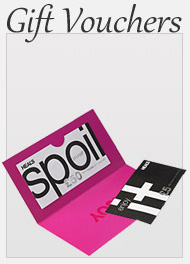
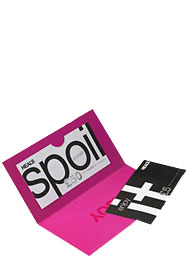
rebrand offers page

Changed region(s): [[0.0263, 0.0, 0.9737, 0.6364], [0.0263, 0.6364, 0.9737, 1.0], [0.0, 0.6061, 0.0263, 0.6364]]

diff --git a/resources/css/catgrid.css b/resources/css/catgrid.css
@@ -1,4 +1,4 @@
-.leftnav-header p{color:#747679;text-decoration: none;display: block;padding: 0 0 0 5px;text-transform:uppercase;font-size:14px;margin:8px 0 15px 0;} 
+.leftnav-header p{color:#747679;text-decoration: none;display: block;padding: 0 0 0 5px;text-transform:none;font-size:1.2em;margin:8px 0 5px 0; font-family:"Times New Roman", Times, serif;font-style:italic; font-weight:bold;} 
 #content-default_nocoltwothree, #productdetail_bottom {
 background:none;}
 #category-container {width:940px;background-color:#ffffff;height:auto;overflow:hidden;}
@@ -10,64 +10,65 @@ h5.acc_trigger a:hover, h5.acc_trigger_gift a:hover {text-decoration:underline;}
 h5.active {background-position: left bottom;}
 .acc_accordion_area, .shopbybrand_area {margin: 0; padding: 0;width: 190px;background-color:#ffffff;overflow: hidden;float: left;}
 .acc_accordion_area .block_christmas, .shopbybrand_area .block_christmas, .acc_accordion_area .block_office, .shopbybrand_area .block_office, .acc_accordion_area .block_dining, .shopbybrand_area .block_dining, .acc_accordion_area .block_furniture, .shopbybrand_area .block_furniture, .acc_accordion_area .block_accessories, .shopbybrand_area .block_accessories, .acc_accordion_area .block_lighting, .shopbybrand_area .block_lighting, .acc_accordion_area .block_gifts, .shopbybrand_area .block_gifts, .acc_accordion_area .block_toiletries, .shopbybrand_area .block_toiletries, .acc_accordion_area .block_garden, .shopbybrand_area .block_garden, .acc_accordion_area .block_bathroom, .shopbybrand_area .block_bathroom, .acc_accordion_area .block_bedroom, .shopbybrand_area .block_bedroom, .acc_accordion_area .block_sale, .shopbybrand_area .block_sale{margin:0 5px 0 5px;padding:0;}
-.shopbybrand_area .block_gift_voucher {margin:50px 8px 0 7px; padding:0;}
+.shopbybrand_area .block_gift_voucher {margin:0 8px 0 7px; padding:0;}
 .acc_accordion_area .block_dining:hover, .shopbybrand_area .block_dining:hover, .acc_accordion_area .block_office:hover, .shopbybrand_area .block_office:hover, .acc_accordion_area .block_christmas:hover, .shopbybrand_area .block_christmas:hover, .acc_accordion_area .block_furniture:hover, .shopbybrand_area .block_furniture:hover, .acc_accordion_area .block_accessories:hover, .shopbybrand_area .block_accessories:hover, .acc_accordion_area .block_lighting:hover, .shopbybrand_area .block_lighting:hover, .acc_accordion_area .block_gifts:hover, .shopbybrand_area .block_gifts:hover, .acc_accordion_area .block_toiletries:hover, .shopbybrand_area .block_toiletries:hover, .acc_accordion_area .block_garden:hover, .shopbybrand_area .block_garden:hover, .acc_accordion_area .block_bathroom:hover, .shopbybrand_area .block_bathroom:hover, .acc_accordion_area .block_bedroom:hover, .shopbybrand_area .block_bedroom:hover, .acc_accordion_area .block_sale:hover, .shopbybrand_area .block_sale:hover, .shopbybrand_area .block_gift_voucher:hover {cursor:pointer;}
-.acc_accordion_area .block_dining p, .shopbybrand_area .block_dining p, .acc_accordion_area .block_furniture p, .shopbybrand_area .block_furniture p, .acc_accordion_area .block_accessories p, .shopbybrand_area .block_accessories p, .acc_accordion_area .block_lighting p, .shopbybrand_area .block_lighting p, .acc_accordion_area .block_gifts p, .shopbybrand_area .block_gifts p, .acc_accordion_area .block_toiletries p, .shopbybrand_area .block_toiletries p, .acc_accordion_area .block_garden p, .shopbybrand_area .block_garden p, .acc_accordion_area .block_bathroom p, .shopbybrand_area .block_bathroom p, .acc_accordion_area .block_bedroom p, .shopbybrand_area .block_bedroom p, .acc_accordion_area .block_sale p, .shopbybrand_area .block_sale p, .acc_accordion_area .block_office p, .shopbybrand_area .block_office p, .acc_accordion_area .block_christmas p, .shopbybrand_area .block_christmas p, .shopbybrand_area .block_gift_voucher p {border-bottom:1px dotted #cccccc;padding-top:5px;padding-bottom:5px;margin:0;}
-.acc_accordion_area .block_dining p:hover, .shopbybrand_area .block_dining p:hover {background-color:#e8e5dc;}
-.acc_accordion_area .block_furniture p:hover, .shopbybrand_area .block_furniture p:hover {background-color:#E6E3EF;}
-.acc_accordion_area .block_accessories p:hover, .shopbybrand_area .block_accessories p:hover {background-color:#f0eadd;}
-.acc_accordion_area .block_lighting p:hover, .shopbybrand_area .block_lighting p:hover {background-color:#e2e2e2;}
-.acc_accordion_area .block_gifts p:hover, .shopbybrand_area .block_gifts p:hover, .shopbybrand_area .block_gift_voucher p:hover {background-color:#f0c7d6;}
-.acc_accordion_area .block_toiletries p:hover, .shopbybrand_area .block_toiletries p:hover {background-color:#ddeee6;}
-.acc_accordion_area .block_garden p:hover, .shopbybrand_area .block_garden p:hover {background-color:#ced698;}
-.acc_accordion_area .block_bathroom p:hover, .shopbybrand_area .block_bathroom p:hover {background-color:#ddeee6;}
-.acc_accordion_area .block_office p:hover, .shopbybrand_area .block_office p:hover {background-color:#f8e8de;}
-.acc_accordion_area .block_bedroom p:hover, .shopbybrand_area .block_bedroom p:hover {background-color:#d3dde7;}
-.acc_accordion_area .block_sale p:hover, .shopbybrand_area .block_sale p:hover {background-color:#ecc3c0;}
-.acc_accordion_area .block_christmas p:hover, .shopbybrand_area .block_christmas p:hover {background-color:#d7bdc9;}
-.acc_accordion_area .block_dining p a, .acc_accordion_area .block_office p a, .shopbybrand_area .block_office p a, .acc_accordion_area .block_christmas p a, .shopbybrand_area .block_christmas p a, .shopbybrand_area .block_dining p a, .acc_accordion_area .block_furniture p a, .shopbybrand_area .block_furniture p a, .acc_accordion_area .block_accessories p a, .shopbybrand_area .block_accessories p a, .acc_accordion_area .block_lighting p a, .shopbybrand_area .block_lighting p a, .acc_accordion_area .block_gifts p a, .shopbybrand_area .block_gifts p a, .acc_accordion_area .block_toiletries p a, .shopbybrand_area .block_toiletries p a, .acc_accordion_area .block_garden p a, .shopbybrand_area .block_garden p a, .acc_accordion_area .block_bathroom p a, .shopbybrand_area .block_bathroom p a, .acc_accordion_area .block_bedroom p a, .shopbybrand_area .block_bedroom p a, .acc_accordion_area .block_sale p a, .shopbybrand_area .block_sale p a, .shopbybrand_area .block_gift_voucher p a {color:#666666;text-decoration:none;margin-left:15px;display:block;}
-.border-top {border-top:1px dotted #cccccc;}
+.acc_accordion_area .block_dining p, .shopbybrand_area .block_dining p, .acc_accordion_area .block_furniture p, .shopbybrand_area .block_furniture p, .acc_accordion_area .block_accessories p, .shopbybrand_area .block_accessories p, .acc_accordion_area .block_lighting p, .shopbybrand_area .block_lighting p, .acc_accordion_area .block_gifts p, .shopbybrand_area .block_gifts p, .acc_accordion_area .block_toiletries p, .shopbybrand_area .block_toiletries p, .acc_accordion_area .block_garden p, .shopbybrand_area .block_garden p, .acc_accordion_area .block_bathroom p, .shopbybrand_area .block_bathroom p, .acc_accordion_area .block_bedroom p, .shopbybrand_area .block_bedroom p, .acc_accordion_area .block_sale p, .shopbybrand_area .block_sale p, .acc_accordion_area .block_office p, .shopbybrand_area .block_office p, .acc_accordion_area .block_christmas p, .shopbybrand_area .block_christmas p, .shopbybrand_area .block_gift_voucher p {padding-top:5px;padding-bottom:5px;margin:0;}
+.acc_accordion_area .block_dining p:hover, .shopbybrand_area .block_dining p:hover {background-color:#efe9e5;}
+.acc_accordion_area .block_furniture p:hover, .shopbybrand_area .block_furniture p:hover {background-color:#efe9e5;}
+.acc_accordion_area .block_accessories p:hover, .shopbybrand_area .block_accessories p:hover {background-color:#efe9e5;}
+.acc_accordion_area .block_lighting p:hover, .shopbybrand_area .block_lighting p:hover {background-color:#efe9e5;}
+.acc_accordion_area .block_gifts p:hover, .shopbybrand_area .block_gifts p:hover, .shopbybrand_area .block_gift_voucher p:hover {background-color:#efe9e5;}
+.acc_accordion_area .block_toiletries p:hover, .shopbybrand_area .block_toiletries p:hover {background-color:#efe9e5;}
+.acc_accordion_area .block_garden p:hover, .shopbybrand_area .block_garden p:hover {background-color:#efe9e5;}
+.acc_accordion_area .block_bathroom p:hover, .shopbybrand_area .block_bathroom p:hover {background-color:#efe9e5;}
+.acc_accordion_area .block_office p:hover, .shopbybrand_area .block_office p:hover {background-color:#efe9e5;}
+.acc_accordion_area .block_bedroom p:hover, .shopbybrand_area .block_bedroom p:hover {background-color:#efe9e5;}
+.acc_accordion_area .block_sale p:hover, .shopbybrand_area .block_sale p:hover {background-color:#efe9e5;}
+.acc_accordion_area .block_christmas p:hover, .shopbybrand_area .block_christmas p:hover {background-color:#efe9e5;}
+.acc_accordion_area .block_dining p a, .acc_accordion_area .block_office p a, .shopbybrand_area .block_office p a, .acc_accordion_area .block_christmas p a, .shopbybrand_area .block_christmas p a, .shopbybrand_area .block_dining p a, .acc_accordion_area .block_furniture p a, .shopbybrand_area .block_furniture p a, .acc_accordion_area .block_accessories p a, .shopbybrand_area .block_accessories p a, .acc_accordion_area .block_lighting p a, .shopbybrand_area .block_lighting p a, .acc_accordion_area .block_gifts p a, .shopbybrand_area .block_gifts p a, .acc_accordion_area .block_toiletries p a, .shopbybrand_area .block_toiletries p a, .acc_accordion_area .block_garden p a, .shopbybrand_area .block_garden p a, .acc_accordion_area .block_bathroom p a, .shopbybrand_area .block_bathroom p a, .acc_accordion_area .block_bedroom p a, .shopbybrand_area .block_bedroom p a, .acc_accordion_area .block_sale p a, .shopbybrand_area .block_sale p a, .shopbybrand_area .block_gift_voucher p a {color:#747679;text-decoration:none;margin-left:10px;display:block;}
+.border-top {border-top:1px solid #747679;}
 #category-main-content {width:100%; height:100%;float:left;}
 #categorylist {background-color: #ffffff;}
 #sub_categories {width:100%;height:auto; float: left;}
-.sub_category_grid {width:234px;height:276px;border:1px solid #cccccc;margin:8px 0 8px 8px;float:left;}
+.sub_category_grid {width:234px;height:276px;border:1px solid #747679;margin:8px 0 8px 8px;float:left; font-family:"Times New Roman", Times, serif;}
 .sub_category_image {width:234px;height:145px;border:0;}
-.sub_category_title {background:url(../images/gradient.gif);background-repeat-x: repeat;background-repeat-y: norepeat;background-position-x: 0px;background-position-y: 0px;width:234px;height:23px;border-top:1px solid #cccccc;border-bottom:1px solid #cccccc;padding-top:5px;}
+.sub_category_title {background:#ffffff;width:234px;height:23px;border-top:1px solid #747679;border-bottom:1px solid #747679;padding-top:5px; text-align:center;}
 .sub_category_title a {color:#747679;font-size:13px;margin:10px;text-decoration:none;text-transform:uppercase;}
 .sub_category_title a:hover {color:#747679;font-size:13px;text-decoration:underline;} 
 .sub_category_sub_headings_christmas,
 .sub_category_sub_headings_office,
 .sub_category_sub_headings_dining, .sub_category_sub_headings_furniture, .sub_category_sub_headings_accessories,
 .sub_category_sub_headings_lighting, .sub_category_sub_headings_gifts, .sub_category_sub_headings_toiletries, .sub_category_sub_headings_garden, .sub_category_sub_headings_bathroom, .sub_category_sub_headings_bedroom, .sub_category_sub_headings_sale{width:234px;height:98px;padding-top:3px;}
-.sub_category_sub_headings_christmas{background:#d7bdc9;}
-.sub_category_sub_headings_office{background:#f8e8de;}
-.sub_category_sub_headings_dining{background:#e8e5dc;}
-.sub_category_sub_headings_furniture{background:#E6E3EF;}
-.sub_category_sub_headings_accessories{background:#f0eadd;}
-.sub_category_sub_headings_lighting{background:#e2e2e2;}
-.sub_category_sub_headings_gifts{background:#f0c7d6;}
-.sub_category_sub_headings_toiletries{background:#ddeee6;}
-.sub_category_sub_headings_garden{background:#ced698;}
-.sub_category_sub_headings_bathroom{background:#ddeee6;}
-.sub_category_sub_headings_bedroom{background:#d3dde7;}
-.sub_category_sub_headings_sale{background:#ecc3c0;}
+.sub_category_sub_headings_christmas{background:#ffffff;}
+.sub_category_sub_headings_office{background:#ffffff;}
+.sub_category_sub_headings_dining{background:#ffffff;}
+.sub_category_sub_headings_furniture{background:#ffffff;}
+.sub_category_sub_headings_accessories{background:#ffffff;}
+.sub_category_sub_headings_lighting{background:#ffffff;}
+.sub_category_sub_headings_gifts{background:#ffffff;}
+.sub_category_sub_headings_toiletries{background:#ffffff;}
+.sub_category_sub_headings_garden{background:#ffffff;}
+.sub_category_sub_headings_bathroom{background:#ffffff;}
+.sub_category_sub_headings_bedroom{background:#ffffff;}
+.sub_category_sub_headings_sale{background:#ffffff;}
 .sub_headings {margin-left: 10px;width: 90%;height: 16px;float: left;}
 .sub_headings a {color:#747679;text-decoration:none;float:left;}
 .sub_headings a:hover {color:#747679;text-decoration:underline;}
-.category-top-banner {background-color: #ffffff;margin: 15px;z-index: 50;float: left;}
+.category-top-banner {background-color: #ffffff !important;margin: 15px;z-index: 50;float: left;}
 .seotext-overlay {width:230px;height:111px;margin:56px 0 0 492px;z-index:100;position:absolute;}
-.seotext-overlay p {font-size:11px;color:#ffffff;}
-.slider_container {width:740px;height:283px;background-color:#ffffff;float:left;}
+.seotext-overlay p {font-size:11px;color:#ffffff;margin-top: 50px;}
+.slider_container {width:740px;height:295px;background-color:#ffffff;float:left;}
 .slider_inner {width:724px;height:275px;margin:8px;}
-.slider_tab{width:724px;height:30px;float:left;}
-.slider_tab a{width:169px;height:30px;margin-right:6px;float:left;text-align: center;padding: 7px;text-decoration: none;color: #747679;background-color:#efe9e5;}
-.slider_tab a.active{background: #ffffff;color:#747679;}
+.slider_tab{width:724px;height:30px;float:left;border-bottom: 1px solid #747679;}
+.slider_tab a{width:169px;height:30px;margin-right:6px;float:left;text-align: center;padding: 7px;text-decoration: none;color: #747679;background-color:#efe9e5;border:1px solid #747679;font-family: times new roman;font-style: italic;font-weight: bold;}
+.pricedetail {height: 25px;float: right;}
+.slider_tab a.active{background: #ffffff;color:#747679;border:1px solid #747679;font-family: times new roman;font-style: italic;font-weight: bold;}
 .slider_body {width:724px;height:237px;background-color:#ffffff;float:left;position: relative;}
-.slider_product {width:171px;height:221px;background-color:#e6e6e6;position:relative;z-index:500;margin:8px 0 0 8px;float:left;}
-.title_slider {float: left;vertical-align: text-top;padding:0;margin:0;height:27px;width:167px;overflow:hidden;}
+.slider_product {width:171px;height:auto;background-color:#ffffff;position:relative;z-index:500;margin:8px 0 0 8px;float:left;border:1px solid #747679;padding: 0 1%;}
+.title_slider {float: left;vertical-align: text-top;padding:0;margin:0;height:30px;width:167px;overflow:hidden;border-top: 1px solid #747679;padding-top: 5px;}
 h2 {text-transform: uppercase;text-align: left;padding: 0px 4px 0px 4px;font-size:10px;color:#747679;margin:0;}
 .slider_carousel {position: absolute;top: 0;left: 0;}
-.window {height:229px;width:724px;overflow: hidden;position: relative;}
+.window {height:250px;width:724px;overflow: hidden;position: relative;}
 .slider_carousel1, .slider_carousel2 {height:229px;width: 724px;float:left;position:absolute;}
 .slider_carousel1 li, .slider_carousel2 li{display:inline;}
 .slider_carousel1 {left:0;}

diff --git a/resources/css/print.css b/resources/css/print.css
@@ -1,12 +1,17 @@
 /* styles for print version (applied on top of styles.css) */
 body {font-family: Arial, Helvetica, Verdana, sans-serif; font-size: 76%; font-style: normal; font-weight: normal;}
 
-a:active,a:link,a:visited{color:#666; text-decoration: underline;}
-a:hover{color:#666;text-decoration: underline;}
+a:active,a:link,a:visited{color:#666; text-decoration: none;}
+a:hover{color:#666;text-decoration: none;}
 /* % values fill width of printed page */
 /* hide the following */
 
-#admin, #footer, #topnavstorefinder, #wrapper .topnav img.versus, #wrapper .topnav ul, #productdetail .links, #tabs {display:none;}
+.header-logo img {
+	width:20%;
+}
+
+
+#admin, #footer, #topnavstorefinder, #wrapper .topnav img.versus, #wrapper .topnav ul, #productdetail .links, #tabs, .searchbox, .share, .shipping-badge, .product-more, .viewbasket-button, .checkout-button .buyControls .button, .buyControlsMulti, .button, li.checkout-button, .attribute-list-add, li.logout, li.myaccount {display:none;}
 #wrapper {width:750px;}
 
 #col-one {width:5%; display:none;}
@@ -38,25 +43,33 @@ ul {list-style: none;}
 /*******************/
 /* PRODUCT DETAILS */
 /*******************/
+
 #productdetail h1 {font-size: 1.272em; margin-bottom:10px; text-transform: uppercase;}
 #productdetail {margin:0 5px 0 0; padding-bottom: 10px; width:750px; background-color: #FFFFFF;}
-#imagezone{float: left;}
-#imagezone img {border: 0;}
-#imagezone #alternativeimages {width: 250px;}
-#alternativeimages div.image {border-right: 1px solid #EFEFEF; text-align: center; padding: 10px 0; margin: 9px 0; float: left;}
-#detailzone{ width:463px; float: right;}
+#imagezone{float:right; width:30%; display:none;}
+#imagezone img {border: 0; width:30%; display:none;}
+#imagezone #alternativeimages {width: 250px; display:none;}
+#alternativeimages div.image {border-right: 1px solid #EFEFEF; text-align: center; padding: 10px 0; margin: 9px 0; float: left; display:none;}
+#detailzone{float: left;}
 
-.enlarge {text-align:center;}
+#productdetail-image {display:none;}
+.window_alternative_view {display:block; width:100px;}
+#productdetail-altview a:first-child {display:block; width:100px;}
+#productdetail-altview a {display:none;}
+
+#zoomableImages img {width:10%; clear:none; display:none;}
+.enlarge {text-align:center; display:none;}
+#productdetail .image{width:10%; display:none;}
 #productdetail p.price {margin-top:5px;}
-#productdetail .invtcontent {float:right; width:365px;}
+#productdetail .invtcontent {float:right; width:100%; display:none;}
 
-#productdetail .invtmedia {margin:0; float:left; padding-right:10px;}
+#productdetail .invtmedia {margin:0; float:left; padding-right:10px; display:none;}
 #productdetail .invtmedia a {font-weight:bolder;}
 #productdetail .invtmedia p {height:178px;}
-#productdetail .desc {margin:0; font-size:0.9em;}
-#productdetail .desc div {width:auto; overflow:hidden; /*display:inline;*/}
+#productdetail .desc {margin:0; font-size:0.9em; width:100%; height:80px; display:none;}
+#productdetail .desc div {width:100%; overflow:hidden; display:inline; height:80px; display:none;}
 
-#productdetail .invtatr {width: 200px; float: left; padding: 35px 0 0 4px !important; padding: 36px 0 0 4px;}
+#productdetail .invtatr {width: 90%; float: left; padding: 35px 0 0 4px !important; padding: 36px 0 0 4px;}
 #productdetail form {display:block; clear:both;}
 #productdetail form fieldset {margin: 0; padding: 0;}
 #productdetail form fieldset label {display: none;}
@@ -74,46 +87,56 @@ ul {list-style: none;}
 #productdetail .invttabborder div {border-top: 1px solid #676767; border-right: 1px solid #676767; width: 117px; height: 21px !important; height: 20px; font-size: 1.4em; font-weight: bolder; text-align: center; padding: 3px 0 0 0 !important; padding: 4px 0 0 0; float: left}
 #productdetail .invttabborder div.first {border-left:1px solid #676767;}
 #productdetail .invttabborder .selected {background:#FFF; border-bottom:0;}
-#productdetail .invttabcontent {border:1px solid #676767; border-top:0; padding:19px 12px 27px 12px; margin:0; font-size:0.9em;}
-#productdetail .invttabcontent p.invtdesc1 {margin:0; padding:0;}
+#productdetail .invttabcontent {border:1px solid #676767; border-top:0; padding:19px 12px 27px 12px; margin:0; font-size:0.9em; float:right;}
+#productdetail .invttabcontent p.invtdesc1 {margin:0; padding:0; float:right;}
 #productdetail .add {display:block;}
 #productdetail .buy {display: block;}
 #productdetail .emailmeinstock{display:none;}
 #productdetail .nostock{display:none;}
 #productdetail .instore{font-weight:bold;color:red;}
 #productdetail table.tbl-details td.leftside{width:100px;}
-#productdetail table.tbl-details td.rightside{width:300px;}
+#productdetail table.tbl-details td.rightside{width:100%;}
 #productdetail .release{clear:both;}
 
 #productdetail #multibuy_saving {padding: 37px 0; border-bottom: 1px solid #EFEFEF;}
 #productdetail #brandlogo {margin: 0 0 10px 0; text-align: center;}
 #productdetail #productdetail_price{float: left; width: 285px;}
 .deliverycharge p a{text-decoration: none; font-weight: bold;}
-#productdetail #sharesector{float: right;}
-#productdetail #sharesector ul#addionalinfo li{text-align: right; margin-bottom: 5px;}
-#productdetail #sharesector ul li#hdrAdditional{font-weight: bold; padding-right: 0;}
-#productdetail #sharesector ul li#emailtofriend{background: url(../images/img_email.gif) right 4px no-repeat; padding-right: 20px;}
-#productdetail #sharesector ul li#print{background: url(../images/img_print.gif) right 4px no-repeat;  padding-right: 20px;}
-#productdetail #sharesector ul li#bookmark{background: url(../images/img_bookmark.gif) right 0 no-repeat;  padding-right: 20px;}
-#productdetail #sharesector ul li#termandcondition{background: url(../images/img_termandcondition.gif) right 0 no-repeat;  padding-right: 20px;}
+#productdetail #sharesector{float: right; display:none;}
+#productdetail #sharesector ul#addionalinfo li{text-align: right; margin-bottom: 5px; display:none;}
+#productdetail #sharesector ul li#hdrAdditional{font-weight: bold; padding-right: 0; display:none;}
+#productdetail #sharesector ul li#emailtofriend{background: url(../images/img_email.gif) right 4px no-repeat; padding-right: 20px; display:none;}
+#productdetail #sharesector ul li#print{background: url(../images/img_print.gif) right 4px no-repeat;  padding-right: 20px; display:none;}
+#productdetail #sharesector ul li#bookmark{background: url(../images/img_bookmark.gif) right 0 no-repeat;  padding-right: 20px; display:none;}
+#productdetail #sharesector ul li#termandcondition{background: url(../images/img_termandcondition.gif) right 0 no-repeat;  padding-right: 20px; display:none;}
 #productdetail #productdetail_price #price{font: bold 1.818em arial;}
 #productdetail #productdetail_price .pricenow{color: red !important; float: left;}
 #productdetail #productdetail_price .productdetail_was{color: #6D6D6D; font-size: 1.090em; margin: 7px 0 0 60px; float: left;}
 #productdetail #productdetail_price .productdetail_was span#was  {text-decoration: line-through; }
-.rowqty{float: left; padding-left: 10px; width: 104px;}
+.rowqty{float: left; padding-left: 10px; width: 104px; clear:both;}
 .rowqty #qty{width: 48px; border: 1px solid #999999; text-align: right; margin-right: 10px;}
 .productdetail_button{float: right; width: 348px;}
 #pricefrom {color: red;}
 #pricefrom span {font-weight: bold;}
-.search-similar ul li {float: left; display: block; width: 150px; height: 20px; min-height: 20px; margin-right: 6px;}
+.search-similar ul li {float: left; display: none; width: 150px; height: 20px; min-height: 20px; margin-right: 6px;}
 #productdetail_bottom{background-color: #FFFFFF; padding-top: 0px;}
+
+#prodMulti {display:none;}
+#prodMulti div {float:right;}
+#attribute-list-grid {width:100%; clear:left; display:block; position:absolute;}
+.attribute-list-details {}
+.attribute-list-image {}
+.attribute-list-image div {}
+.attribute-list-image img {position:absolute;}
+#rangeProducts img {display:none;}
+
 /******************/
 /* TAB in Product detail */
 /******************/
-.tabdetail{clear: both;}
-#tabarea{width: 463px;}
+.tabdetail{margin-bottom: 20px;}
+#tabarea{width: 463px; clear: both;}
 #tabgroup ul{margin: 0; padding: 0;}
-#tabgroup ul li{width: 153px; background-color: #EFEAE5; list-style: none; float: left; padding: 0; margin: 0;}
+#tabgroup ul li{width: 153px; background-color: #EFEAE5; list-style: none; float: left; padding: 0; margin-bottom: 25px;}
 #tabgroup ul li a{display: block;}
 
 #productdetail ol {margin-top: 0; float:left; padding:0 0 0 22px;}
@@ -126,9 +149,9 @@ ul {list-style: none;}
 #productdetail .reviews{display:none;} /*disable 500-600 ,500-700 */
 
 #productdetail .tabheader {float:left;}	
-#productdetail .tablink{height: 19px;}
-#productdetail .tabcontent {padding:5px 5px 35px 5px; width: 453px; min-height:100px; height:auto;}
-* html #productdetail .tabcontent {height: 150px; padding-bottom: 5px;}
+#productdetail .tablink{height: 25px;}
+#productdetail .tabcontent {padding:5px 5px 35px 5px; width: 100%; min-height:100px; height:auto;}
+* html #productdetail .tabcontent {height:80px; padding-bottom: 25px;}
 
 #productdetail .tabcontent li{list-style:none;}
 
@@ -138,7 +161,7 @@ ul {list-style: none;}
 
 #productdetail ul#addionalinfo li{font-size:0.9em; margin:2px 5px;padding:0 5px 0 18px;}
 #productdetail .search-similar{margin:10px 0;}
-.relatesection {float: right; width: 705px;}
+.relatesection {float: right; width: 50px; display:none;}
 
 
 /***************/
@@ -177,9 +200,9 @@ ul {list-style: none;}
 /******************/
 /* ALTERNATIVE IMAGE */
 /******************/
-#alternativeimages{border-top: 1px solid #EFEFEF; width: 428px; text-align: center; padding-left: 3px;}
-#alternativeimages div.image {border-right: 1px solid #EFEFEF; text-align: center; padding: 10px; margin: 9px 0; float: left;}
-#alternativeimages div.lastimage {border-right: none; text-align: center; padding: 10px; margin: 9px 0; float: left;}
+#alternativeimages{border-top: 1px solid #EFEFEF; width: 428px; text-align: center; padding-left: 3px; display:none;}
+#alternativeimages div.image {border-right: 1px solid #EFEFEF; text-align: center; padding: 10px; margin: 9px 0; float: left; display:none;}
+#alternativeimages div.lastimage {border-right: none; text-align: center; padding: 10px; margin: 9px 0; float: left; display:none;}
 
 #header {}
 #header .Lmainlogo img {display:block; border:none; margin:0 0 20px 0; *margin:0 0 20px 50px;}
@@ -194,8 +217,10 @@ ul {list-style: none;}
 #showminicart {display:none;}
 
 /* product detail specific */
-#productdetail #info, #productdetail table {width:100%;}
+#productdetail #info, #productdetail table {width:100%; height:80px;}
 #productdetail .details .value {width:99%;}
+
+
 
 /*****************/
 /* ORDER RECEIPT */
@@ -282,3 +307,5 @@ ul {list-style: none;}
 #orderreceipt #orfnfeatprod {display:none;}
 
 .Lcat_orfntopcontent, .helpinfo, .Lcheckoutstepindicators, .stepbox {display:none;}
+
+.acc_accordion_area {display:block !important;}

diff --git a/templates/cats/special_offers/special_offers.html b/templates/cats/special_offers/special_offers.html
@@ -1,7 +1,5 @@
 <link rel="stylesheet" href="
 <venda_entmediaadd>/ebiz/<venda_bsref>/resources/css/catgrid.css" type="text/css" media="screen, projector">
-<script type="text/javascript" src="
-<venda_entmediaadd>/ebiz/<venda_bsref>/resources/js/category_landing.js"></script>
 <div id="category-container">
 <div id="category-left-nav">
 <div class="leftnav-header">
@@ -36,7 +34,10 @@
 </div>
 </div>
 <br clear="all" /><br /><br />
-<div class="shopbybrand_area" style="height:270px;width:190px;background:url(<venda_ebizurl>/content/ebiz/<venda_bsref>/resources/images/gift-vouchers.jpg) no-repeat;">
+<div class="leftnav-header">
+<p>Gift Vouchers</p>
+</div>
+<div class="shopbybrand_area" style="height:210px;width:190px;background:url(<venda_ebizurl>/content/ebiz/<venda_bsref>/resources/images/gift-vouchers.jpg) bottom no-repeat;">
 <div class="block_gift_voucher">
 <p class="border-top"><a href="<venda_dispview invt=giftvouchers>">Store Gift Vouchers</a></p>
 <p><a href="<venda_codehttp>/?ex=co_wizr-giftcertificates&bsref=heals">Online Gift Vouchers</a></p>
@@ -261,3 +262,5 @@
 </div>
 </div>
 </div>
+<script type="text/javascript" src="
+<venda_entmediaadd>/ebiz/<venda_bsref>/resources/js/category_landing.js"></script>
